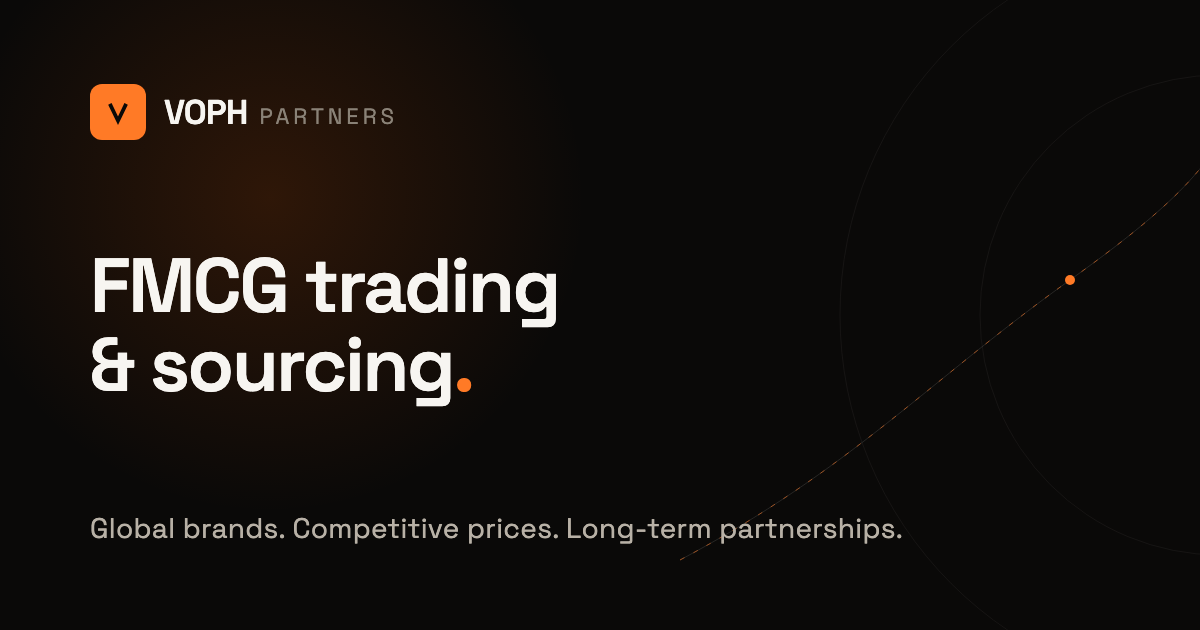
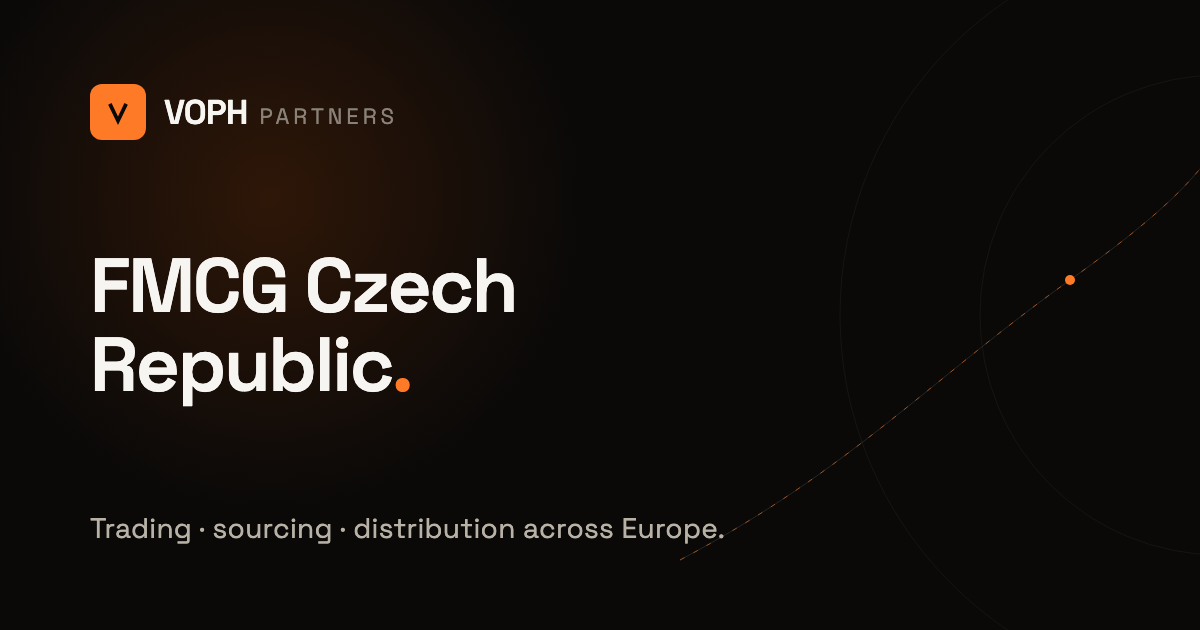
Strengthen international Czech FMCG positioning

Changed region(s): [[0.0617, 0.3921, 0.4625, 0.6635], [0.0617, 0.8143, 0.74, 0.8746]]

diff --git a/src/i18n.js b/src/i18n.js
@@ -141,11 +141,11 @@ const dictionaries = {
     footer: { tagline: 'Long-term partner for FMCG trading and sourcing.', navLabel: 'Navigation', contactLabel: 'Contact', address: CONTACT.address, rights: 'All rights reserved.' },
   }),
   pl: createDictionary({
-    meta: { title: 'Handel, sourcing i dystrybucja FMCG | VOPH Partners', description: 'B2B handel, sourcing i dystrybucja FMCG globalnych marek dla hurtowni, sieci handlowych i e-commerce na rynkach europejskich, ze sprawną logistyką.' },
+    meta: { title: 'FMCG Czech Republic | Handel i sourcing | VOPH Partners', description: 'VOPH Partners to czeski partner B2B w handlu, sourcingu i dystrybucji FMCG dla hurtowni, sieci detalicznych i e-commerce w Czechach i Europie.' },
     a11y: { skip: 'Przejdź do treści', menuOpen: 'Otwórz menu', menuClose: 'Zamknij menu', langLabel: 'Język strony', home: 'VOPH Partners — strona główna' },
     nav: { links: [['about', 'O nas'], ['services', 'Usługi'], ['why', 'Dlaczego VOPH'], ['process', 'Współpraca'], ['contact', 'Kontakt']].map(([id, label]) => ({ id, label })), cta: 'Skontaktuj się z nami' },
     hero: { badge: 'FMCG Czech Republic', titleLines: ['Twój długoterminowy', 'partner w handlu', 'i sourcingu FMCG'], sub: 'Globalne marki. Konkurencyjne ceny. Długoterminowe partnerstwa.', support: 'Łączymy marki, logistykę i rynki — dla hurtowni, sieci detalicznych i dużych e-commerce.', ctaPrimary: 'Skontaktuj się z nami', ctaSecondary: 'Dowiedz się więcej', chips: ['Sourcing w Europie i poza nią', 'Jeden punkt kontaktu', 'Szybka odpowiedź'], scroll: 'Przewiń w dół' },
-    about: { label: 'O nas', title: 'Handel i sourcing FMCG z długoterminową perspektywą.', lead: 'VOPH Partners to partner handlowy i sourcingowy skoncentrowany na FMCG. Łączymy marki, logistykę i rynki w całej Europie — budując długoterminowe partnerstwa, a nie jednorazowe transakcje.', body: 'Do grupy należy franczyza 15 sklepów One-Shop.cz, hurtowy e-shop VOPH.cz oraz e-shop B2C Loopy.cz.', stats: [{ value: 5.9, decimals: 1, suffix: ' mln €', label: 'obrotu w 2025 roku' }, { value: 50, suffix: '+', label: 'dwustronnych partnerstw' }, { value: 3468, suffix: '+', label: 'sprzedanych palet w 2025 roku' }, { value: 10, suffix: '+', label: 'krajów współpracy w Europie' }], quote: 'Budujemy na zaufaniu, niezawodności i relacjach, które trwają dłużej niż jedna transakcja.' },
+    about: { label: 'O nas', title: 'Czeski partner FMCG dla rynków europejskich.', lead: 'VOPH Partners to czeski partner w handlu, sourcingu i dystrybucji FMCG. Z Czech łączymy marki, logistykę i rynki w całej Europie — budując długoterminowe partnerstwa, a nie jednorazowe transakcje.', body: 'Do grupy należy franczyza 15 sklepów One-Shop.cz, hurtowy e-shop VOPH.cz oraz e-shop B2C Loopy.cz.', stats: [{ value: 5.9, decimals: 1, suffix: ' mln €', label: 'obrotu w 2025 roku' }, { value: 50, suffix: '+', label: 'dwustronnych partnerstw' }, { value: 3468, suffix: '+', label: 'sprzedanych palet w 2025 roku' }, { value: 10, suffix: '+', label: 'krajów współpracy w Europie' }], quote: 'Budujemy na zaufaniu, niezawodności i relacjach, które trwają dłużej niż jedna transakcja.' },
     services: { label: 'Usługi', title: 'Nasze mocne strony.', items: [['Dystrybucja FMCG', 'Produkty wiodących światowych marek w konkurencyjnych cenach. W dużych wolumenach i z niezawodną dostawą.'], ['Sourcing', 'Wyszukujemy produkty i dostawców na całym świecie. W Europie i poza nią — zgodnie z Twoim zapytaniem.'], ['Trading', 'Łączymy marki, dystrybutorów i rynki. Szybko, przejrzyście i bez zbędnej administracji.']] },
     brands: { label: 'Marki w naszym portfolio' },
     why: { label: 'Dlaczego VOPH Partners', title: 'Handel oparty na wolumenie, szybkości i relacjach.', items: [['Lepsze ceny dzięki wolumenom', 'Siła zakupowa widoczna w Twojej marży.'], ['Szybka odpowiedź', 'Twoje zapytanie nie czeka w kolejce.'], ['Międzynarodowy sourcing', 'Europa i rynki zamorskie. Jedna sieć dostawców.'], ['Prosta współpraca', 'Jeden punkt kontaktu. Minimum administracji.'], ['Długoterminowe partnerstwo', 'Nie budujemy na jednorazowych transakcjach.'], ['Know-how FMCG', 'Znamy kategorie, marki i rynki.']] },
@@ -156,11 +156,11 @@ const dictionaries = {
     footer: { tagline: 'Długoterminowy partner w handlu i sourcingu FMCG.', navLabel: 'Nawigacja', contactLabel: 'Kontakt', address: CONTACT.address, rights: 'Wszelkie prawa zastrzeżone.' },
   }),
   de: createDictionary({
-    meta: { title: 'FMCG-Handel, Sourcing & Distribution | VOPH Partners', description: 'B2B-FMCG-Handel, Sourcing und Distribution globaler Marken für Großhandel, Einzelhandel und E-Commerce in europäischen Märkten – mit zuverlässiger Logistik.' },
+    meta: { title: 'FMCG Czech Republic | Handel & Sourcing | VOPH Partners', description: 'VOPH Partners ist Ihr tschechischer B2B-Partner für FMCG-Handel, Sourcing und Distribution globaler Marken in Tschechien und ganz Europa.' },
     a11y: { skip: 'Zum Inhalt springen', menuOpen: 'Menü öffnen', menuClose: 'Menü schließen', langLabel: 'Sprache der Website', home: 'VOPH Partners — Startseite' },
     nav: { links: [['about', 'Über uns'], ['services', 'Leistungen'], ['why', 'Warum VOPH'], ['process', 'Zusammenarbeit'], ['contact', 'Kontakt']].map(([id, label]) => ({ id, label })), cta: 'Kontakt aufnehmen' },
     hero: { badge: 'FMCG Czech Republic', titleLines: ['Ihr langfristiger', 'Partner für FMCG-', 'Handel & Sourcing'], sub: 'Globale Marken. Wettbewerbsfähige Preise. Langfristige Partnerschaften.', support: 'Wir verbinden Marken, Logistik und Märkte — für Großhändler, Handelsketten und große E-Commerce-Unternehmen.', ctaPrimary: 'Kontakt aufnehmen', ctaSecondary: 'Mehr erfahren', chips: ['Sourcing in Europa und darüber hinaus', 'Ein Ansprechpartner', 'Schnelle Reaktion'], scroll: 'Nach unten scrollen' },
-    about: { label: 'Über uns', title: 'FMCG-Handel und Sourcing mit langfristiger Perspektive.', lead: 'VOPH Partners ist ein auf FMCG spezialisierter Handels- und Sourcing-Partner. Wir verbinden Marken, Logistik und Märkte in ganz Europa — und bauen langfristige Partnerschaften statt einmaliger Geschäfte auf.', body: 'Zur Gruppe gehören die One-Shop.cz-Franchise mit 15 Filialen, der Großhandels-E-Shop VOPH.cz und der B2C-E-Shop Loopy.cz.', stats: [{ value: 5.9, decimals: 1, suffix: ' Mio. €', label: 'Umsatz im Jahr 2025' }, { value: 50, suffix: '+', label: 'beidseitige Partnerschaften' }, { value: 3468, suffix: '+', label: 'verkaufte Paletten im Jahr 2025' }, { value: 10, suffix: '+', label: 'Länder der Zusammenarbeit in Europa' }], quote: 'Wir setzen auf Vertrauen, Verlässlichkeit und Beziehungen, die länger halten als ein einzelnes Geschäft.' },
+    about: { label: 'Über uns', title: 'Ihr tschechischer FMCG-Partner für europäische Märkte.', lead: 'VOPH Partners ist ein tschechischer Partner für FMCG-Handel, Sourcing und Distribution. Von Tschechien aus verbinden wir Marken, Logistik und Märkte in ganz Europa — und bauen langfristige Partnerschaften statt einmaliger Geschäfte auf.', body: 'Zur Gruppe gehören die One-Shop.cz-Franchise mit 15 Filialen, der Großhandels-E-Shop VOPH.cz und der B2C-E-Shop Loopy.cz.', stats: [{ value: 5.9, decimals: 1, suffix: ' Mio. €', label: 'Umsatz im Jahr 2025' }, { value: 50, suffix: '+', label: 'beidseitige Partnerschaften' }, { value: 3468, suffix: '+', label: 'verkaufte Paletten im Jahr 2025' }, { value: 10, suffix: '+', label: 'Länder der Zusammenarbeit in Europa' }], quote: 'Wir setzen auf Vertrauen, Verlässlichkeit und Beziehungen, die länger halten als ein einzelnes Geschäft.' },
     services: { label: 'Leistungen', title: 'Unsere Stärken.', items: [['FMCG-Distribution', 'Produkte führender globaler Marken zu wettbewerbsfähigen Preisen. In großen Mengen und mit zuverlässiger Lieferung.'], ['Sourcing', 'Wir finden Produkte und Lieferanten weltweit. In Europa und darüber hinaus — nach Ihren Vorgaben.'], ['Handel', 'Wir verbinden Marken, Distributoren und Märkte. Schnell, transparent und ohne unnötige Administration.']] },
     brands: { label: 'Marken in unserem Portfolio' },
     why: { label: 'Warum VOPH Partners', title: 'Handel auf Basis von Volumen, Tempo und Beziehungen.', items: [['Bessere Preise durch Volumen', 'Einkaufskraft, die Sie in Ihrer Marge sehen.'], ['Schnelle Reaktion', 'Ihre Anfrage bleibt nicht liegen.'], ['Internationales Sourcing', 'Europa und Übersee. Ein Lieferantennetzwerk.'], ['Einfache Zusammenarbeit', 'Ein Ansprechpartner. Minimaler Aufwand.'], ['Langfristige Partnerschaft', 'Wir bauen nicht auf Einzelgeschäften auf.'], ['FMCG-Know-how', 'Wir kennen Kategorien, Marken und Märkte.']] },
@@ -171,11 +171,11 @@ const dictionaries = {
     footer: { tagline: 'Langfristiger Partner für FMCG-Handel und Sourcing.', navLabel: 'Navigation', contactLabel: 'Kontakt', address: CONTACT.address, rights: 'Alle Rechte vorbehalten.' },
   }),
   hu: createDictionary({
-    meta: { title: 'FMCG kereskedelem, sourcing és disztribúció | VOPH Partners', description: 'B2B FMCG kereskedelem, sourcing és globális márkák disztribúciója nagykereskedőknek, retail láncoknak és e-kereskedőknek Európa piacain, megbízható logisztikával.' },
+    meta: { title: 'FMCG Czech Republic | Kereskedelem | VOPH Partners', description: 'A VOPH Partners csehországi B2B partner FMCG kereskedelemhez, sourcinghoz és disztribúcióhoz nagykereskedők, üzletláncok és e-kereskedők számára.' },
     a11y: { skip: 'Ugrás a tartalomra', menuOpen: 'Menü megnyitása', menuClose: 'Menü bezárása', langLabel: 'Weboldal nyelve', home: 'VOPH Partners — kezdőlap' },
     nav: { links: [['about', 'Rólunk'], ['services', 'Szolgáltatások'], ['why', 'Miért VOPH'], ['process', 'Együttműködés'], ['contact', 'Kapcsolat']].map(([id, label]) => ({ id, label })), cta: 'Kapcsolatfelvétel' },
     hero: { badge: 'FMCG Czech Republic', titleLines: ['Hosszú távú', 'partnere az FMCG', 'kereskedelemben'], sub: 'Globális márkák. Versenyképes árak. Hosszú távú partnerségek.', support: 'Márkákat, logisztikát és piacokat kapcsolunk össze — nagykereskedők, üzletláncok és nagy e-kereskedők számára.', ctaPrimary: 'Kapcsolatfelvétel', ctaSecondary: 'Tudjon meg többet', chips: ['Sourcing Európában és azon túl', 'Egy kapcsolattartó', 'Gyors válasz'], scroll: 'Görgessen lejjebb' },
-    about: { label: 'Rólunk', title: 'FMCG kereskedelem és sourcing hosszú távú szemlélettel.', lead: 'A VOPH Partners FMCG-fókuszú kereskedelmi és sourcing partner. Európa-szerte kapcsoljuk össze a márkákat, a logisztikát és a piacokat — hosszú távú partnerségeket építve, nem egyszeri üzleteket.', body: 'A csoporthoz tartozik a 15 One-Shop.cz üzletet működtető franchise, a VOPH.cz nagykereskedelmi e-shop és a Loopy.cz B2C e-shop.', stats: [{ value: 5.9, decimals: 1, suffix: ' millió €', label: 'árbevétel 2025-ben' }, { value: 50, suffix: '+', label: 'kétoldalú partnerség' }, { value: 3468, suffix: '+', label: 'eladott raklap 2025-ben' }, { value: 10, suffix: '+', label: 'együttműködési ország Európában' }], quote: 'Bizalomra, megbízhatóságra és olyan kapcsolatokra építünk, amelyek egy üzletnél tovább tartanak.' },
+    about: { label: 'Rólunk', title: 'Csehországi FMCG partner az európai piacokhoz.', lead: 'A VOPH Partners csehországi partner FMCG kereskedelemhez, sourcinghoz és disztribúcióhoz. Csehországból kapcsoljuk össze a márkákat, a logisztikát és a piacokat Európa-szerte — hosszú távú partnerségeket építve.', body: 'A csoporthoz tartozik a 15 One-Shop.cz üzletet működtető franchise, a VOPH.cz nagykereskedelmi e-shop és a Loopy.cz B2C e-shop.', stats: [{ value: 5.9, decimals: 1, suffix: ' millió €', label: 'árbevétel 2025-ben' }, { value: 50, suffix: '+', label: 'kétoldalú partnerség' }, { value: 3468, suffix: '+', label: 'eladott raklap 2025-ben' }, { value: 10, suffix: '+', label: 'együttműködési ország Európában' }], quote: 'Bizalomra, megbízhatóságra és olyan kapcsolatokra építünk, amelyek egy üzletnél tovább tartanak.' },
     services: { label: 'Szolgáltatások', title: 'Amiben erősek vagyunk.', items: [['FMCG disztribúció', 'Vezető globális márkák termékei versenyképes áron. Nagy volumenben, megbízható szállítással.'], ['Sourcing', 'Termékeket és beszállítókat keresünk világszerte. Európában és azon túl — az Ön igényei szerint.'], ['Kereskedelem', 'Márkákat, forgalmazókat és piacokat kötünk össze. Gyorsan, átláthatóan, felesleges adminisztráció nélkül.']] },
     brands: { label: 'Márkák a portfóliónkban' },
     why: { label: 'Miért VOPH Partners', title: 'Volumenre, gyorsaságra és kapcsolatokra épülő kereskedelem.', items: [['Jobb árak a volumennek köszönhetően', 'Beszerzési erő, amely a marginban is látszik.'], ['Gyors válasz', 'Az Ön megkeresése nem marad válasz nélkül.'], ['Nemzetközi sourcing', 'Európa és tengerentúl. Egy beszállítói hálózat.'], ['Egyszerű együttműködés', 'Egy kapcsolattartó. Minimális adminisztráció.'], ['Hosszú távú partnerség', 'Nem egyszeri üzletekre építünk.'], ['FMCG know-how', 'Ismerjük a kategóriákat, márkákat és piacokat.']] },
@@ -186,11 +186,11 @@ const dictionaries = {
     footer: { tagline: 'Hosszú távú partner FMCG kereskedelemhez és sourcinghoz.', navLabel: 'Navigáció', contactLabel: 'Kapcsolat', address: CONTACT.address, rights: 'Minden jog fenntartva.' },
   }),
   fr: createDictionary({
-    meta: { title: 'Négoce, sourcing et distribution FMCG | VOPH Partners', description: 'Négoce, sourcing et distribution B2B de marques FMCG mondiales pour grossistes, enseignes et e-commerce sur les marchés européens, avec une logistique fiable.' },
+    meta: { title: 'FMCG Czech Republic | Négoce & sourcing | VOPH Partners', description: 'VOPH Partners est un partenaire B2B tchèque pour le négoce, le sourcing et la distribution FMCG de marques mondiales en République tchèque et en Europe.' },
     a11y: { skip: 'Aller au contenu', menuOpen: 'Ouvrir le menu', menuClose: 'Fermer le menu', langLabel: 'Langue du site', home: 'VOPH Partners — accueil' },
     nav: { links: [['about', 'À propos'], ['services', 'Services'], ['why', 'Pourquoi VOPH'], ['process', 'Partenariat'], ['contact', 'Contact']].map(([id, label]) => ({ id, label })), cta: 'Nous contacter' },
     hero: { badge: 'FMCG Czech Republic', titleLines: ['Votre partenaire', 'de long terme pour', 'le FMCG'], sub: 'Marques mondiales. Prix compétitifs. Partenariats durables.', support: 'Nous connectons marques, logistique et marchés — pour les grossistes, enseignes et grands acteurs e-commerce.', ctaPrimary: 'Nous contacter', ctaSecondary: 'En savoir plus', chips: ['Sourcing en Europe et au-delà', 'Un interlocuteur unique', 'Réponse rapide'], scroll: 'Faire défiler' },
-    about: { label: 'À propos', title: 'Négoce et sourcing FMCG avec une vision de long terme.', lead: 'VOPH Partners est un partenaire de négoce et de sourcing spécialisé dans le FMCG. Nous connectons les marques, la logistique et les marchés dans toute l’Europe — et construisons des partenariats durables, pas des opérations ponctuelles.', body: 'Le groupe comprend la franchise One-Shop.cz de 15 magasins, l’e-shop de gros VOPH.cz et l’e-shop B2C Loopy.cz.', stats: [{ value: 5.9, decimals: 1, suffix: ' M€', label: 'de chiffre d’affaires en 2025' }, { value: 50, suffix: '+', label: 'partenariats réciproques' }, { value: 3468, suffix: '+', label: 'palettes vendues en 2025' }, { value: 10, suffix: '+', label: 'pays partenaires en Europe' }], quote: 'Nous nous appuyons sur la confiance, la fiabilité et des relations qui durent plus longtemps qu’une seule transaction.' },
+    about: { label: 'À propos', title: 'Votre partenaire FMCG tchèque pour les marchés européens.', lead: 'VOPH Partners est un partenaire tchèque pour le négoce, le sourcing et la distribution FMCG. Depuis la République tchèque, nous connectons les marques, la logistique et les marchés dans toute l’Europe — pour construire des partenariats durables.', body: 'Le groupe comprend la franchise One-Shop.cz de 15 magasins, l’e-shop de gros VOPH.cz et l’e-shop B2C Loopy.cz.', stats: [{ value: 5.9, decimals: 1, suffix: ' M€', label: 'de chiffre d’affaires en 2025' }, { value: 50, suffix: '+', label: 'partenariats réciproques' }, { value: 3468, suffix: '+', label: 'palettes vendues en 2025' }, { value: 10, suffix: '+', label: 'pays partenaires en Europe' }], quote: 'Nous nous appuyons sur la confiance, la fiabilité et des relations qui durent plus longtemps qu’une seule transaction.' },
     services: { label: 'Services', title: 'Nos points forts.', items: [['Distribution FMCG', 'Produits de grandes marques mondiales à des prix compétitifs. En volumes importants, avec une livraison fiable.'], ['Sourcing', 'Nous trouvons des produits et des fournisseurs dans le monde entier. En Europe et au-delà — selon votre besoin.'], ['Négoce', 'Nous connectons marques, distributeurs et marchés. Rapidement, clairement et sans administration superflue.']] },
     brands: { label: 'Marques de notre portefeuille' },
     why: { label: 'Pourquoi VOPH Partners', title: 'Un commerce fondé sur les volumes, la réactivité et les relations.', items: [['De meilleurs prix grâce aux volumes', 'Une puissance d’achat visible dans votre marge.'], ['Réponse rapide', 'Votre demande ne reste jamais en attente.'], ['Sourcing international', 'Europe et marchés lointains. Un seul réseau de fournisseurs.'], ['Collaboration simple', 'Un interlocuteur unique. Un minimum d’administration.'], ['Partenariat de long terme', 'Nous ne construisons pas sur des opérations ponctuelles.'], ['Savoir-faire FMCG', 'Nous connaissons les catégories, les marques et les marchés.']] },
@@ -201,11 +201,11 @@ const dictionaries = {
     footer: { tagline: 'Partenaire de long terme pour le négoce et le sourcing FMCG.', navLabel: 'Navigation', contactLabel: 'Contact', address: CONTACT.address, rights: 'Tous droits réservés.' },
   }),
   nl: createDictionary({
-    meta: { title: 'FMCG-handel, sourcing en distributie | VOPH Partners', description: 'B2B FMCG-handel, sourcing en distributie van wereldmerken voor groothandel, retail en e-commerce in Europese markten, met betrouwbare logistiek.' },
+    meta: { title: 'FMCG Czech Republic | Handel & sourcing | VOPH Partners', description: 'VOPH Partners is een Tsjechische B2B-partner voor FMCG-handel, sourcing en distributie van wereldmerken in Tsjechië en andere Europese markten.' },
     a11y: { skip: 'Ga naar inhoud', menuOpen: 'Menu openen', menuClose: 'Menu sluiten', langLabel: 'Taal van de website', home: 'VOPH Partners — home' },
     nav: { links: [['about', 'Over ons'], ['services', 'Diensten'], ['why', 'Waarom VOPH'], ['process', 'Samenwerking'], ['contact', 'Contact']].map(([id, label]) => ({ id, label })), cta: 'Neem contact op' },
     hero: { badge: 'FMCG Czech Republic', titleLines: ['Uw partner voor', 'FMCG-handel en', 'sourcing op lange termijn'], sub: 'Wereldwijde merken. Concurrerende prijzen. Langdurige partnerships.', support: 'We verbinden merken, logistiek en markten — voor groothandels, retailketens en grote e-commercepartijen.', ctaPrimary: 'Neem contact op', ctaSecondary: 'Meer informatie', chips: ['Sourcing in Europa en daarbuiten', 'Eén aanspreekpunt', 'Snelle reactie'], scroll: 'Scroll naar beneden' },
-    about: { label: 'Over ons', title: 'FMCG-handel en sourcing met een langetermijnvisie.', lead: 'VOPH Partners is een op FMCG gerichte handels- en sourcingpartner. We verbinden merken, logistiek en markten in heel Europa — en bouwen langdurige partnerships, geen eenmalige transacties.', body: 'De groep omvat de One-Shop.cz-franchise met 15 winkels, de groothandelswebshop VOPH.cz en de B2C-webshop Loopy.cz.', stats: [{ value: 5.9, decimals: 1, prefix: '€', suffix: ' mln.', label: 'omzet in 2025' }, { value: 50, suffix: '+', label: 'wederzijdse partnerships' }, { value: 3468, suffix: '+', label: 'verkochte pallets in 2025' }, { value: 10, suffix: '+', label: 'landen van samenwerking in Europa' }], quote: 'We bouwen op vertrouwen, betrouwbaarheid en relaties die langer meegaan dan één transactie.' },
+    about: { label: 'Over ons', title: 'Uw Tsjechische FMCG-partner voor Europese markten.', lead: 'VOPH Partners is een Tsjechische partner voor FMCG-handel, sourcing en distributie. Vanuit Tsjechië verbinden we merken, logistiek en markten in heel Europa — en bouwen we langdurige partnerships in plaats van eenmalige transacties.', body: 'De groep omvat de One-Shop.cz-franchise met 15 winkels, de groothandelswebshop VOPH.cz en de B2C-webshop Loopy.cz.', stats: [{ value: 5.9, decimals: 1, prefix: '€', suffix: ' mln.', label: 'omzet in 2025' }, { value: 50, suffix: '+', label: 'wederzijdse partnerships' }, { value: 3468, suffix: '+', label: 'verkochte pallets in 2025' }, { value: 10, suffix: '+', label: 'landen van samenwerking in Europa' }], quote: 'We bouwen op vertrouwen, betrouwbaarheid en relaties die langer meegaan dan één transactie.' },
     services: { label: 'Diensten', title: 'Waar we sterk in zijn.', items: [['FMCG-distributie', 'Producten van toonaangevende wereldmerken tegen concurrerende prijzen. In grote volumes, met betrouwbare levering.'], ['Sourcing', 'We vinden producten en leveranciers over de hele wereld. In Europa en daarbuiten — volgens uw aanvraag.'], ['Handel', 'We verbinden merken, distributeurs en markten. Snel, transparant en zonder onnodige administratie.']] },
     brands: { label: 'Merken in onze portfolio' },
     why: { label: 'Waarom VOPH Partners', title: 'Handel gebaseerd op volume, snelheid en relaties.', items: [['Betere prijzen door volume', 'Inkoopkracht die u in uw marge ziet.'], ['Snelle reactie', 'Uw aanvraag blijft nooit liggen.'], ['Internationale sourcing', 'Europa en overzee. Eén leveranciersnetwerk.'], ['Eenvoudige samenwerking', 'Eén aanspreekpunt. Minimale administratie.'], ['Langdurig partnership', 'We bouwen niet op eenmalige transacties.'], ['FMCG-knowhow', 'We kennen de categorieën, merken en markten.']] },
